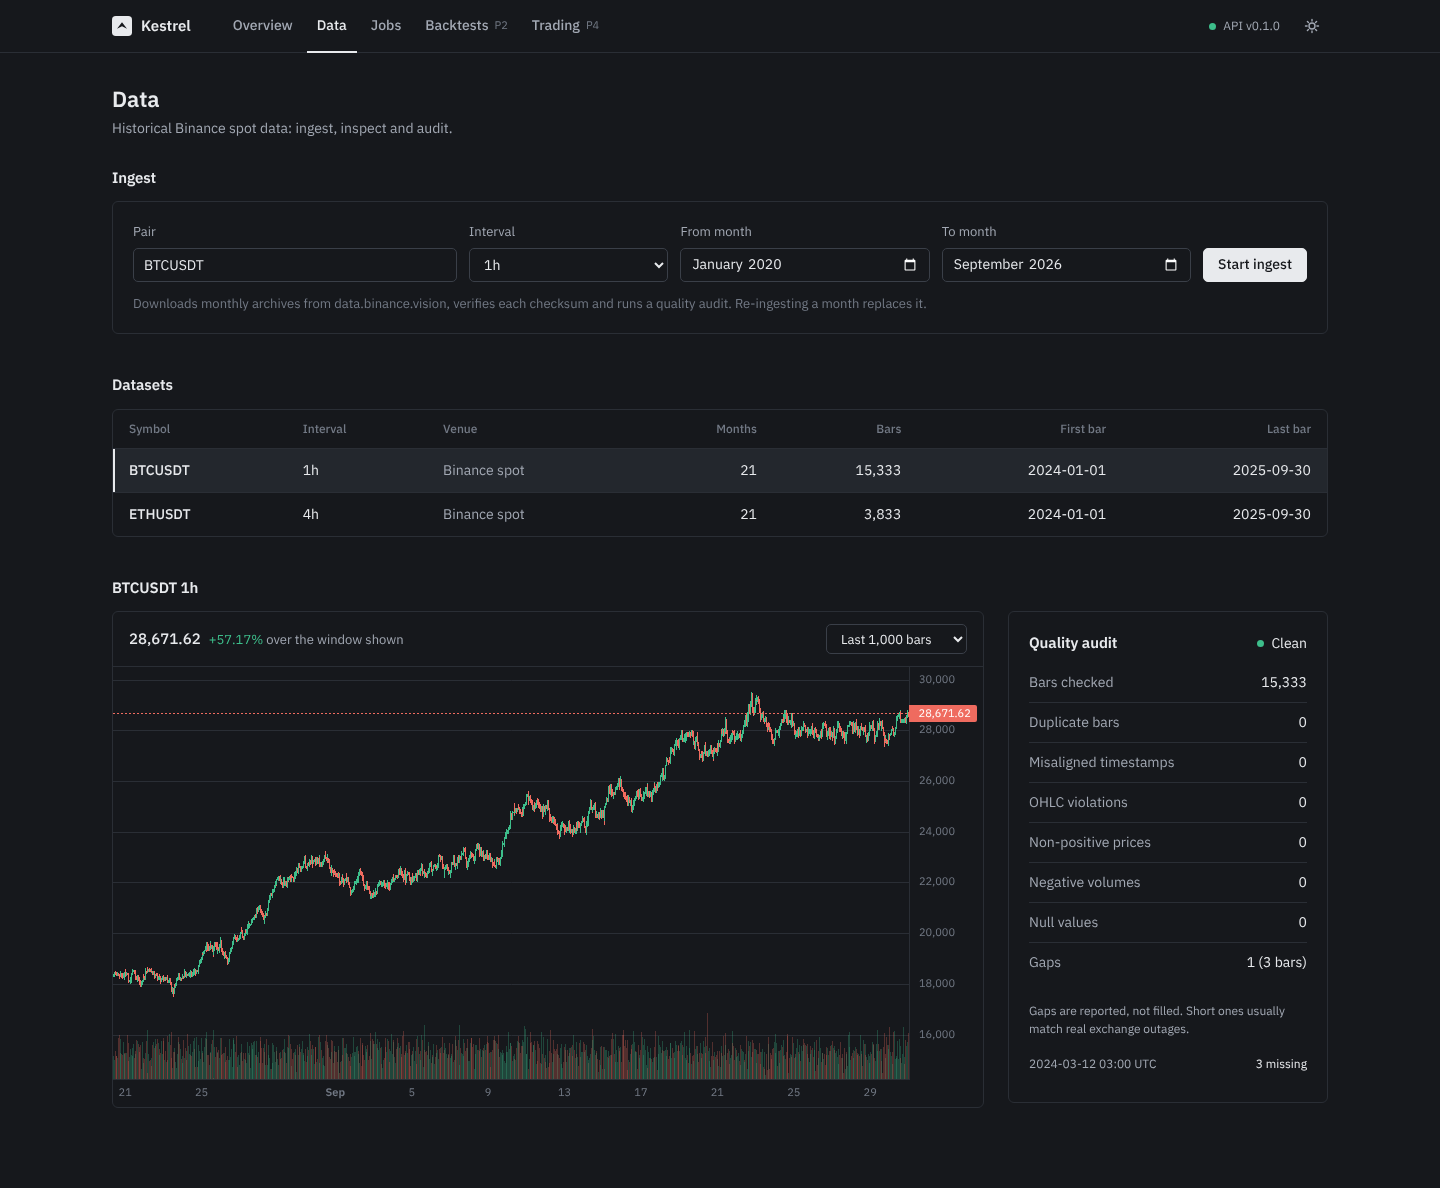
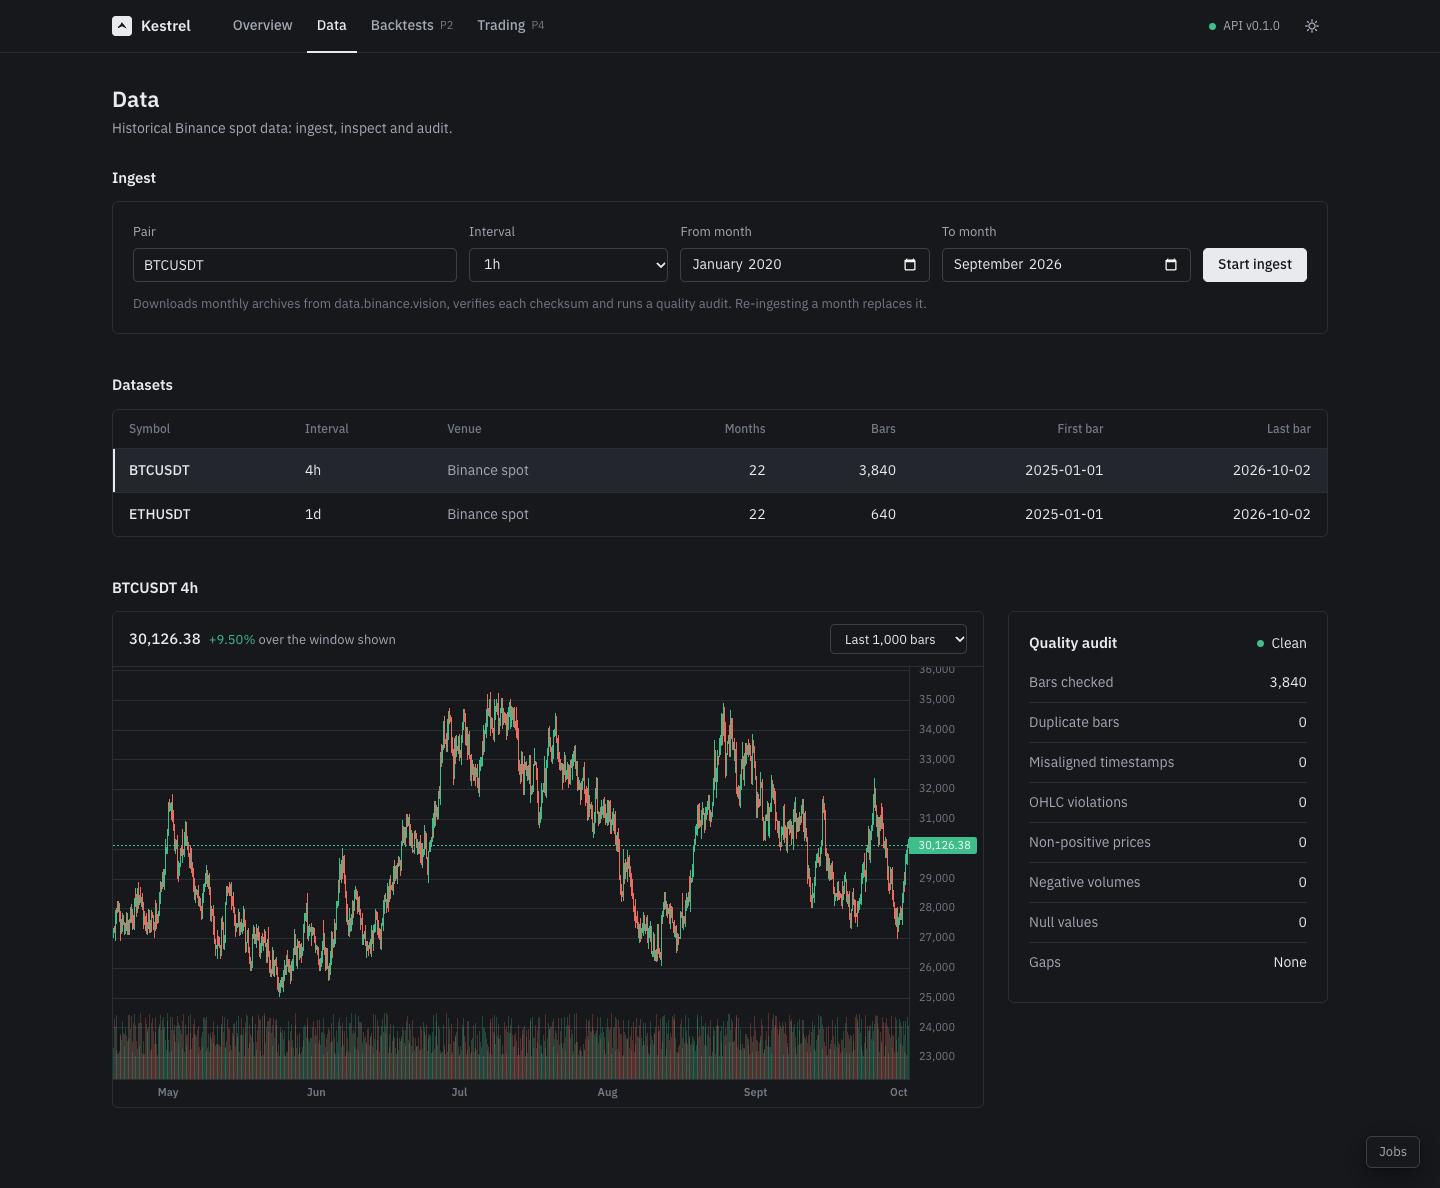
Record parked decisions, show them in build progress, refresh screenshots
- CLAUDE.md: new "Decisions and parked ideas" section (USDT engine
  currency, kestrel.toml config, multi-strategy allocator design,
  settings page scope) so later sessions don't re-argue them.
- Overview build progress: P2 marked in progress; parked items listed
  under a dashed divider. README roadmap updated to match.
- Overview data row no longer says "None" twice when nothing was ingested.
- README screenshots retaken (synthetic data) with the jobs dock.

diff --git a/frontend/src/pages/Overview.tsx b/frontend/src/pages/Overview.tsx
@@ -4,8 +4,9 @@ import { Empty, PageHeader, Panel, Section, Stat, Status } from "../components/u
 import { ago, date, num } from "../format";
 import { useResource } from "../hooks";
 
-type PhaseState = "done" | "active" | "planned";
+type PhaseState = "done" | "active" | "planned" | "parked";
 
+// Parked items are agreed ideas waiting on an earlier phase; `id` says which.
 const PHASES: { id: string; name: string; state: PhaseState }[] = [
   { id: "P1", name: "Data infrastructure", state: "done" },
   { id: "P1.5", name: "API and dashboard", state: "done" },
@@ -13,12 +14,15 @@ const PHASES: { id: string; name: string; state: PhaseState }[] = [
   { id: "P3", name: "Validation", state: "planned" },
   { id: "P4", name: "Paper and live execution", state: "planned" },
   { id: "P5", name: "Perpetuals", state: "planned" },
+  { id: "P3+", name: "Multi-strategy portfolios", state: "parked" },
+  { id: "P4+", name: "Settings: risk limits, exchange", state: "parked" },
 ];
 
 const PHASE_STATUS: Record<PhaseState, { tone: "ok" | "info" | "neutral"; label: string }> = {
   done: { tone: "ok", label: "Done" },
-  active: { tone: "info", label: "Next" },
+  active: { tone: "info", label: "In progress" },
   planned: { tone: "neutral", label: "Planned" },
+  parked: { tone: "neutral", label: "Parked" },
 };
 
 /**
@@ -198,10 +202,19 @@ function DataSummary({ jobs, openJobs }: { jobs: Job[]; openJobs: () => void }) 
         </div>
         <div>
           <span className="small secondary">Last ingest</span>
-          <b>{lastIngest ? ago(lastIngest.finished_at) : "None"}</b>
-          <button className="link-btn small" onClick={openJobs}>
-            {lastIngest ? "View jobs" : "None since the server started"}
-          </button>
+          {lastIngest ? (
+            <>
+              <b>{ago(lastIngest.finished_at)}</b>
+              <button className="link-btn small" onClick={openJobs}>
+                View jobs
+              </button>
+            </>
+          ) : (
+            <>
+              <b>None</b>
+              <span className="small tertiary">Since the server started</span>
+            </>
+          )}
         </div>
       </div>
     </Panel>

diff --git a/frontend/src/styles.css b/frontend/src/styles.css
@@ -815,6 +815,15 @@ p {
   color: var(--text-2);
 }
 
+.phases li.parked .name {
+  color: var(--text-3);
+}
+
+/* Separate agreed-but-parked ideas from the numbered phases. */
+.phases li.parked:not(.parked + .parked) {
+  border-top: 1px dashed var(--line-strong);
+}
+
 .scope {
   list-style: none;
   margin: 20px 0 0;

diff --git a/README.md b/README.md
@@ -4,7 +4,7 @@ A research-to-production platform for systematic crypto trading, built so that a
 strategy behaves the same way in research, backtest, paper trading and live
 trading.
 
-> **Status:** Data infrastructure, API and dashboard are built. Backtester is next.
+> **Status:** Data infrastructure, API and dashboard are built. Backtester in progress.
 > No strategies yet, by design.
 
 ## Why this exists
@@ -32,10 +32,11 @@ bias, unrealistic fills, ignored costs, and research code that is rewritten
 |---|---|---|
 | 1. Data | Binance bulk ingestion, canonical schema, Parquet store, quality checks | Done |
 | 1.5 Platform | FastAPI service, job runner, React dashboard | Done |
-| 2. Backtester | Vectorised research engine, event-driven validation engine, cost model, metrics | Planned |
+| 2. Backtester | Vectorised research engine, event-driven validation engine, cost model, metrics | In progress |
 | 3. Validation | Walk-forward, parameter robustness, trial log, deflated Sharpe | Planned |
 | 4. Execution | `ExecutionVenue` adapters (sim, Binance testnet, live), reconciliation, kill switch, alerting | Planned |
 | 5. Perps | Funding, basis, margin model | Planned |
+| Parked | Multi-strategy portfolios on one wallet (after P3); settings for risk limits and exchange status (after P4) | Parked |
 
 ## Quick start
 

diff --git a/CLAUDE.md b/CLAUDE.md
@@ -47,6 +47,21 @@ cd frontend && npm run build
       reconciliation, risk limits, kill switch, alerting, parity tests
 - [ ] P5 Perps: funding, basis, margin
 
+## Decisions and parked ideas
+Agreed with Luke; don't re-litigate without a reason.
+- **Engine currency is USDT** (Binance spot quote). The dashboard converts to A$ for
+  display only.
+- **Config lives in `kestrel.toml`**, version-controlled. Every backtest run stores the
+  full config it used, so old results keep their meaning. No global settings UI.
+- **Parked, P3+: multi-strategy portfolios.** Strategies emit *target positions*, never
+  orders; an allocator owns the wallet, resolves conflicts and nets orders before the
+  `ExecutionVenue`. Build P2 around this so single-strategy is a portfolio of one.
+  Open questions: fixed sleeves vs shared pool; Backtests mode vs separate tab.
+  Every strategy/weight combination tried counts as a trial; weights come from a rule.
+- **Parked, P4+: Settings page.** Only risk limits (audited edits) and exchange
+  connection status. Live balances are read from the exchange, never typed in.
+  API keys stay in env vars or the keychain, never in the UI.
+
 ## Working with Luke
 - Be direct. Push back on ideas that would overfit or fool us.
 - Explain design decisions briefly when making them. He needs to be able to
